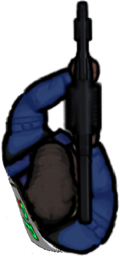
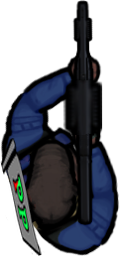
Improved player flag images and players with flag now glow

diff --git a/src/players/EssentialPlayer.java b/src/players/EssentialPlayer.java
@@ -40,6 +40,7 @@ public abstract class EssentialPlayer extends ImageView {
 	private Spawn[] spawn;
 	private Polygon bounds = new Polygon();
 	private boolean hasFlag;
+	private DropShadow shadow = new DropShadow(16, 0, 0, Color.BLACK);
 
 	private String nickname;
 
@@ -57,7 +58,7 @@ public abstract class EssentialPlayer extends ImageView {
 		this.angle = 0;
 		setLayoutX(x);
 		setLayoutY(y);
-		setEffect(new DropShadow(16, 0, 0, Color.BLACK));
+		setEffect(shadow);
 		this.lastX = x;
 		this.lastY = y;
 		this.lastAngle = angle;
@@ -302,9 +303,15 @@ public abstract class EssentialPlayer extends ImageView {
 	{
 		this.hasFlag = hasFlag;
 		if(hasFlag)
+		{
+			shadow.setColor(team == TeamEnum.RED ? Color.RED : Color.BLUE);
 			setImage(ImageFactory.getPlayerFlagImage(team));
+		}
 		else
+		{
+			shadow.setColor(Color.BLACK);
 			setImage(ImageFactory.getPlayerImage(team));
+		}
 	}
 
 	public boolean isEliminated(){

diff --git a/src/players/GhostPlayer.java b/src/players/GhostPlayer.java
@@ -38,12 +38,6 @@ public class GhostPlayer extends ImageView {
 	    getTransforms().add(rotation);
 		rotation.setPivotX(playerHeadX);
 		rotation.setPivotY(playerHeadY);
-
-//		nameTag = new Label(nickname);
-//		nameTag.setStyle("-fx-background-color: rgba(64, 64, 64, 0.75);" +
-//				"-fx-font-size: 10pt; -fx-text-fill: white");
-//		nameTag.setPadding(new Insets(5));
-//		nameTag.relocate(x - 15, y - 32);
 		this.team = team;
 	}
 
@@ -114,7 +108,7 @@ public class GhostPlayer extends ImageView {
 		return nickname;
 	}
 
-	public void  setNickname(String name){
+	public void setNickname(String name){
 		nickname = name;
 		nameTag = new Label(nickname);
 		nameTag.setStyle("-fx-background-color: rgba(64, 64, 64, 0.75);" +
